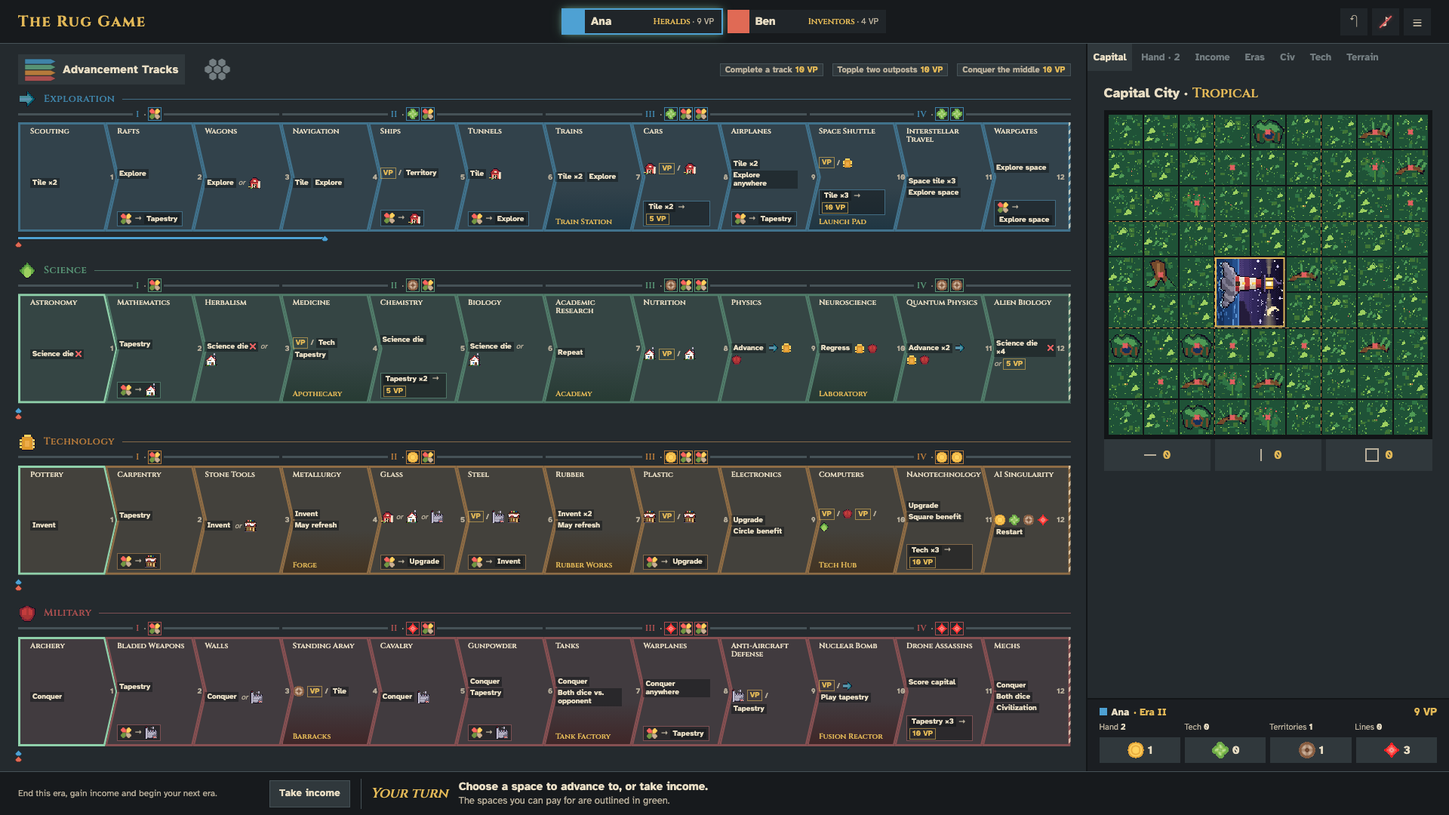
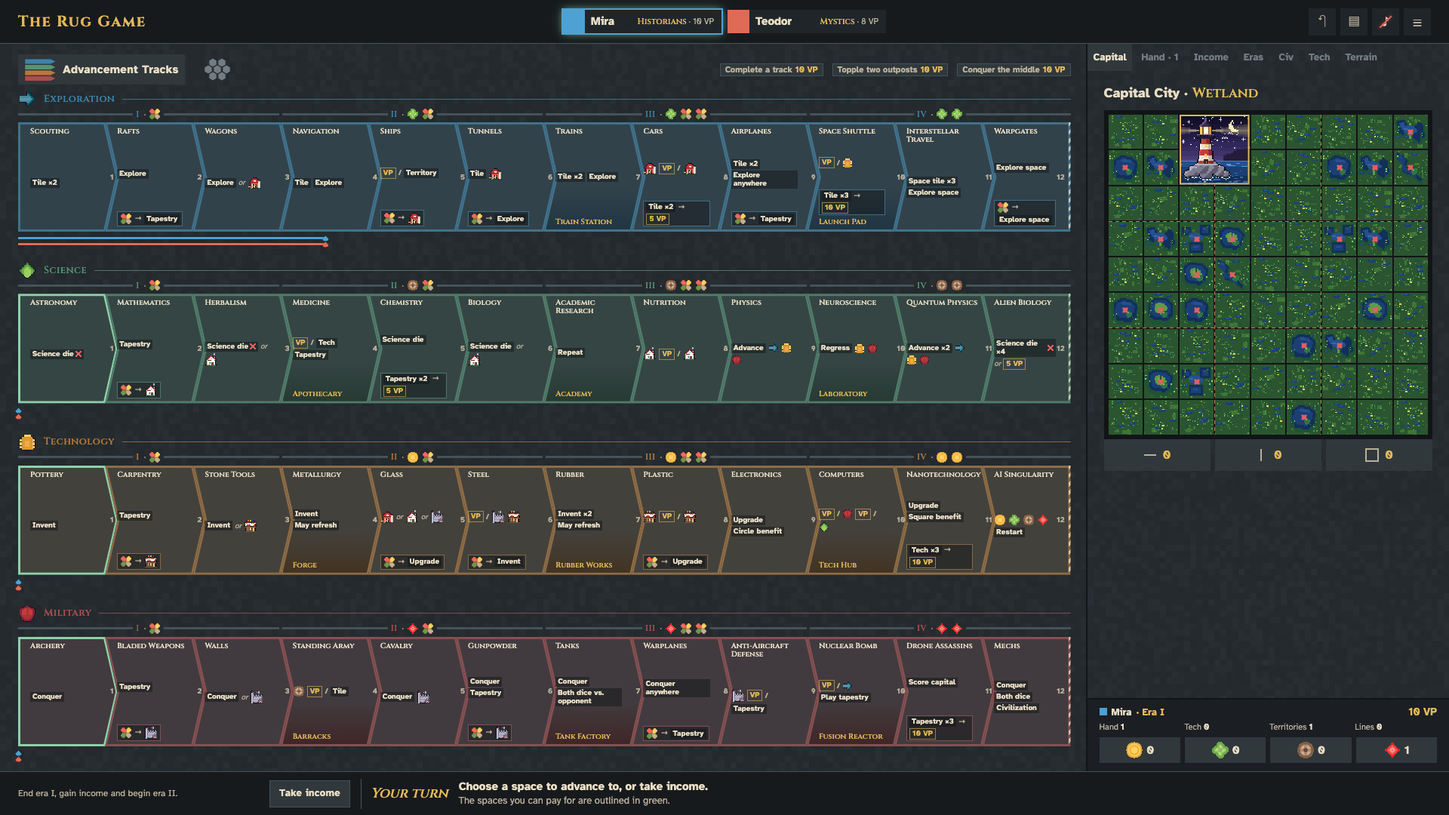
Refs #77: the README and docs show the first-income notice
The README and docs/ui/README.md show the notice from a real hot-seat
game and the forced-income footer from the component library; the map
and player-area screenshots are retaken, so the footer's income words
are the new ones. docs/status.md gets #77's entry, after #47's, and a
line under Next; docs/architecture.md notes startTurn and the turn.js
words. The plan follows the new rules: docs/conventions.md, and no
progress in CLAUDE.md.

diff --git a/docs/architecture.md b/docs/architecture.md
@@ -21,7 +21,7 @@ The project's modules in detail, with the issue that added each. CLAUDE.md keeps
 - `api/rooms.mjs` holds the table rules (#22) as pure transitions in Bird Table's style: `createRoom`, `configure`, `join`, `addSeat`, `removeSeat`, `leave`, `start`, `end` and `play`, plus `settings`, `undo`, `timeout`, `tick`, `nextDeadline`, `scopeOf`, `phase`, `seatsOf` and `cleanName`. #25 adds `ready` (a seat's readiness in an online lobby, cleared by a host change). #29 adds `deal` (0 before the first deal, 1 more at each `start`, in the room view), so the client tells a new deal from the old game. #24 adds `TIMERS` (off, 1, 2 and 5 minutes), `HISTORY_LIMIT` (20 undo steps) and `AUTO_LIMIT` (1,000 automatic answers in a row), and the room fields `timer`, `undo`, `clocks`, `declines` and `history`. Each returns a new room, or `null` when it closes, and throws the engine's `PlayerError`. The code says room, players see table. For the server's `Map` of rooms it has `newCode`, `addRoom` (`MAX_ROOMS` 1,000), `expireRooms` (`ROOM_IDLE_MS`, a day), `openTables` and `unfinishedSeat`. Room seat `i` is game seat `i + 1`; seats never move or disappear while a game is on the table. It uses the engine only through `src/lib/engine/game.js`, whose `checkOptions()` checks a table's options.
 - **Client.** The browser interface is **Svelte 5** with runes forced on (5.57.2), built by **Vite** (8.3.4), without SvelteKit. The project root is Vite's root, laid out like the owner's other Svelte projects (owner, 2026-10-21). The full layout is in docs/conventions.md.
   - `index.html` is the game page. `src/main.js` mounts `src/App.svelte`, which shows one screen at a time from the store (#25): `src/screens/Landing.svelte`, `Lobby.svelte` and, once a game is dealt, `Game.svelte` (#26), with `PageHeader.svelte` and `HelpPanel.svelte`. Screens own state and call the store; the components in `src/lib/components/` stay presentational.
-  - The client's plain modules (#25), each tested under Vitest: `src/lib/api.js` (`createApi`, `ApiError`; the token in `sessionStorage`, so each tab is its own guest), `changes.js` (`change()`: a stale version is retried once while the seats stay the same), `boot.js` (where a returning tab lands), `poll.js` (`pollTable`, one long poll at a time with back-off), `lobby.js` (seat slots, who may change what, labels) and `names.js` (Lazar's name generator). #26 adds `turn.js` (`myDecision`, `advanceOptions`: the engine's own `advances()` and answers run on the viewer's view), `moves.js` (`sendMove`, `seatToShow`), `board.js` (the tracks and achievements), `hexmap.js` (the board's hex geometry and `mapHexes`), `describe.js` (plain English for effects, costs, decisions and answers), `clock.js` and `overview.js`. #27 adds `src/lib/area/` (`capital.js`, `income.js`, `terrain.js`, `tabs.js`, `players.js`: what each player tab and the overview draw from a seat of the view) and `src/lib/cards/game-cards.js` (`techCardData`, `tapestryCardData` from the engine through `describe.js`); the screens `src/screens/game/PlayerTabs.svelte` and `PlayersOverview.svelte`. #28 adds `src/lib/prompts.js` (`promptFor`, `incomeView`, `effectArt`: what the decision panel draws for an open decision), `src/lib/area/explore.js` (`exploreTiles`, `tileScores`, `hexScores`, `exploreIndex`, `tilePreview`, `tileWords`, `exploreLine`: the tiles an explore offers, what each scores on each hex in each turn, and the words for the chosen one; #74 replaced `exploreChoices`) and `src/lib/area/placement-targets.js` (`plotTargets`, `legalNear`, `nextRotation`, `placeNear`, `placingPiece`: the capital's legal places for the Capital tab). #29 adds `src/lib/event-feed.js` (`freshEvents`: the events since the last view of the same table and deal, none after a refresh; `liveEvents`: without what an `undone` took back), `log.js` (`eventText`, `logEntries`, `SILENT`: the log's words), `results.js` (`standings`, `tieExplanations`, `yourResult`, `ruleNote`, `tableFacts`, `scoreboard`, `VP_SOURCES`), `sound.js` (`cueFor`, `createSoundPlayer`, the CC0 Kenney cues in `static/audio/`) and `motion.js` (`highlights`); the store keeps `fresh` and `freshCount`, and App shows `src/screens/Results.svelte` for a finished game unless the player reviews the board. #30 adds `src/lib/pass.js` (`handOver`: at a hot-seat table, which view to take or ask for and whom the pass screen names; `passReason`) and the screen `src/screens/HandOver.svelte`; the store keeps `passing`, `taking` and `takeSeat()`, and App shows the pass screen instead of the game while a player is named. #61 adds `src/lib/dice.js` (`rollsOf`, `faceOf`: the rolls in a batch of fresh events, the faces they land on and their captions; `App.svelte` draws the `DiceTray` over every screen) and the die bodies in `tools/art/parts/dice.js`. #75 adds `src/lib/picks.js` (`pickModel`, `advanceModel`, `tradeOffers`, `offerModel`, `emptySelection`, `togglePick`, `toggleItem`, `canPick`, `canPickItem`, `matchIndex`, `pendingCounts`, `pickStatus`, `rowView`: several resources, cards or tiles chosen one by one and matched to one of the decision's answers; `promptFor` carries its `picks` and a trade's offers). #59 adds `src/lib/glyphs.js` (`effectGlyphs`, `spaceGlyphs`, `bonusGlyphs`: what a track space draws for its benefit and bonus), and #56 `matPlots` and `terrainSeed` in `src/lib/area/capital.js`. `src/lib/game.svelte.js` is the rune store that ties them together. `src/lib/engine/game.js` also exports `completeDistricts`, `uniformLines`, `matchingSides`, `turned`, `INCOME_STEPS`, `INCOME_STEP_KINDS`, and `advances`, `DECISIONS`, `openDecisions`, `controlledTerritories`, `cityPlots` and `completeLines` for the app.
+  - The client's plain modules (#25), each tested under Vitest: `src/lib/api.js` (`createApi`, `ApiError`; the token in `sessionStorage`, so each tab is its own guest), `changes.js` (`change()`: a stale version is retried once while the seats stay the same), `boot.js` (where a returning tab lands), `poll.js` (`pollTable`, one long poll at a time with back-off), `lobby.js` (seat slots, who may change what, labels) and `names.js` (Lazar's name generator). #26 adds `turn.js` (`myDecision`, `advanceOptions`: the engine's own `advances()` and answers run on the viewer's view; #77 adds `incomeWords`, `forcedIncome`, `takingTurnWords` and `firstIncomeNotice`, the words of income turns and the one-time notice after income turn 1), `moves.js` (`sendMove`, `seatToShow`), `board.js` (the tracks and achievements), `hexmap.js` (the board's hex geometry and `mapHexes`), `describe.js` (plain English for effects, costs, decisions and answers), `clock.js` and `overview.js`. #27 adds `src/lib/area/` (`capital.js`, `income.js`, `terrain.js`, `tabs.js`, `players.js`: what each player tab and the overview draw from a seat of the view) and `src/lib/cards/game-cards.js` (`techCardData`, `tapestryCardData` from the engine through `describe.js`); the screens `src/screens/game/PlayerTabs.svelte` and `PlayersOverview.svelte`. #28 adds `src/lib/prompts.js` (`promptFor`, `incomeView`, `effectArt`: what the decision panel draws for an open decision), `src/lib/area/explore.js` (`exploreTiles`, `tileScores`, `hexScores`, `exploreIndex`, `tilePreview`, `tileWords`, `exploreLine`: the tiles an explore offers, what each scores on each hex in each turn, and the words for the chosen one; #74 replaced `exploreChoices`) and `src/lib/area/placement-targets.js` (`plotTargets`, `legalNear`, `nextRotation`, `placeNear`, `placingPiece`: the capital's legal places for the Capital tab). #29 adds `src/lib/event-feed.js` (`freshEvents`: the events since the last view of the same table and deal, none after a refresh; `liveEvents`: without what an `undone` took back), `log.js` (`eventText`, `logEntries`, `SILENT`: the log's words), `results.js` (`standings`, `tieExplanations`, `yourResult`, `ruleNote`, `tableFacts`, `scoreboard`, `VP_SOURCES`), `sound.js` (`cueFor`, `createSoundPlayer`, the CC0 Kenney cues in `static/audio/`) and `motion.js` (`highlights`); the store keeps `fresh` and `freshCount`, and App shows `src/screens/Results.svelte` for a finished game unless the player reviews the board. #30 adds `src/lib/pass.js` (`handOver`: at a hot-seat table, which view to take or ask for and whom the pass screen names; `passReason`) and the screen `src/screens/HandOver.svelte`; the store keeps `passing`, `taking` and `takeSeat()`, and App shows the pass screen instead of the game while a player is named. #61 adds `src/lib/dice.js` (`rollsOf`, `faceOf`: the rolls in a batch of fresh events, the faces they land on and their captions; `App.svelte` draws the `DiceTray` over every screen) and the die bodies in `tools/art/parts/dice.js`. #75 adds `src/lib/picks.js` (`pickModel`, `advanceModel`, `tradeOffers`, `offerModel`, `emptySelection`, `togglePick`, `toggleItem`, `canPick`, `canPickItem`, `matchIndex`, `pendingCounts`, `pickStatus`, `rowView`: several resources, cards or tiles chosen one by one and matched to one of the decision's answers; `promptFor` carries its `picks` and a trade's offers). #59 adds `src/lib/glyphs.js` (`effectGlyphs`, `spaceGlyphs`, `bonusGlyphs`: what a track space draws for its benefit and bonus), and #56 `matPlots` and `terrainSeed` in `src/lib/area/capital.js`. `src/lib/game.svelte.js` is the rune store that ties them together. `src/lib/engine/game.js` also exports `completeDistricts`, `uniformLines`, `matchingSides`, `turned`, `INCOME_STEPS`, `INCOME_STEP_KINDS`, and `advances`, `DECISIONS`, `openDecisions`, `controlledTerritories`, `cityPlots` and `completeLines` for the app.
   - `components.html` is the component library page (#48). `src/library/main.js` mounts `src/library/Library.svelte`, which collects every `src/library/sections/<area>/<Name>.svelte` and shows each component in all its states. `src/lib/components/README.md` indexes the components.
   - `src/lib/` holds everything the app shares:
     - `components/<area>/` holds the Svelte components, grouped by area;
@@ -32,7 +32,7 @@ The project's modules in detail, with the issue that added each. CLAUDE.md keeps
     - `art/hex-overlays.js` holds where the cloud and volcano overlays sit in a territory's 64×56 picture, shared by the art and the map (#6);
     - `art/footprints.js` holds the 33 landmark footprints. A landmark's picture is drawn in its footprint's shape at 32 pixels per plot, and the art build refuses one that covers the wrong plots. The rules engine must reuse this module;
     - `engine/` holds the rules engine, shared by the server and the app. It imports only relative paths: no DOM, Svelte or Node. Its `data/` folder holds the base-game data (#12), plain frozen modules: `ids.js` (versions with their tiebreak chains, and the track, resource, building and terrain ids), `effects.js` (the effect vocabulary), `tracks.js`, `income-mat.js`, `capitals.js`, `maps.js`, `territory-tiles.js`, `space-tiles.js`, `tech-cards.js`, `tapestry-cards.js`, `landmarks.js`, `achievements.js` and `dice.js`. Every benefit is a list of one-key effects such as `{ gain: { any: 1 } }`, explained in `docs/superpowers/specs/2026-10-24-base-game-data-design.md`.
-    - The engine core (#13) sits beside `data/`. `game.js` is the entry point and exports `createGame`, `play`, `view` and `PlayerError`. The pending decisions live on an operation stack (`stack.js`, run by `loop.js`), where a group gives each player a lane so they decide at the same time. `kinds.js` registers the decision kinds (`decisions/`, each with its hidden fields, legal `answers()`, `check()` and `resolve()`) and the automatic kinds. The effect handlers live in `effects/index.js` (`EFFECTS`); each gets its operation, with the `source` space, as a fourth argument. Advance turns (#14) add `turn.js` (`startTurn`, `endTurn`), `payment.js` (paying costs and discards), `movement.js` (moving tokens, the landmark race, once-per-turn activations, `spacesAdvanced`) and `control.js` (`controlledTerritories`, which #17 reuses). The design is `docs/superpowers/specs/2026-10-24-advance-turns-design.md`. Income turns (#15) add `income.js` (`INCOME_STEPS`, exposed spaces, `neighbours`) and `ranking.js` (`rankPlayers`, `landmarksInCity`); their design is `docs/superpowers/specs/2026-10-24-income-turns-design.md`. Capital placement (#16) adds `city.js` (the plots, the legal places, complete districts and lines) and `placing.js` (`placeBuilding`, `placeLandmark`, `placePiece`); its design is `docs/superpowers/specs/2026-10-24-capital-city-design.md`. Exploring and conquering (#17) add `map.js` (hex neighbours, matching sides, legal hexes and targets), `effects/explore.js` and `effects/conquer.js`; their design is `docs/superpowers/specs/2026-10-24-map-design.md`. Tech cards (#18) add `data/tech-cards.js` (the 33 cards), `tech.js` (the deck, the display and the prerequisites) and `effects/tech.js` (`invent`, `upgrade`, `techBenefit`, `landmark`); their design is `docs/superpowers/specs/2026-10-25-tech-cards-design.md`. Tapestry cards (#19) add `data/tapestry-cards.js` (the 43 cards and the trap), `tapestry.js` (playing a card, the current era, the visible cards), `abilities.js` (the active THIS ERA ability, `triggered()`, advance blocks, allies), `eras.js` (the THIS ERA triggers), `achievements.js`, and `effects/tapestry.js`, `effects/players.js` and `effects/cards.js`; their design is `docs/superpowers/specs/2026-10-25-tapestry-abilities-design.md`. Civilizations (#20) add `civs/` (one module per civilization; `CIVS` and `civsOf` in `civs/index.js`; the `Civ` typedef, `offer` and `placeToken` in `civs/civ.js`), `civ-turns.js` (civilization setup and adjustments, step 1 of income turns, `gainCiv`), `outposts.js` (`takeOutpost`), `terrain.js` (the terrains a territory shows) and `effects/lose.js`; their design is `docs/superpowers/specs/2026-10-25-civilizations-design.md`. Because of the `abilities.js` → `civs/index.js` cycle, nine modules throw a `ReferenceError` when imported first: the civilization modules `civs/architects.js`, `futurists.js`, `heralds.js`, `historians.js`, `inventors.js`, `leaders.js`, `mystics.js` and `the-chosen.js`, and `decisions/choose-prophecy.js`. So import the engine through `game.js`, `kinds.js` or `play.js`. #47's civilization-mat component must import a civilization's data tables through `src/lib/engine/game.js` or `civs/index.js`, never a civilization module first. The setup steps are `SETUP_STEPS` in `setup.js` and `AFTER_SETUP_STEPS` in `after-setup.js`. The optional variants (#53) are `VARIANTS` in `setup.js`, as `{ id, name }`; each is checked in `state.variants` where its rule lives, and `techDeck(variants)` in `decks.js` gives a game's tech cards. `play.js` answers a decision. `state.js` holds the state types and the seat lookups. `events.js` numbers the events. `random.js` holds the injected randomness and the shuffle. `decks.js` lists the base decks. `errors.js` holds `PlayerError`. `table.js` (#24) holds what tables need to know about a game: `askedSeats`, `defaultAction`, `declineOnly`, `revealed`, `timedOut` and `restore`; `state.turn` counts turns (0 in setup). `view.js` is the only way state leaves the server. The design is `docs/superpowers/specs/2026-10-24-engine-core-design.md`.
+    - The engine core (#13) sits beside `data/`. `game.js` is the entry point and exports `createGame`, `play`, `view` and `PlayerError`. The pending decisions live on an operation stack (`stack.js`, run by `loop.js`), where a group gives each player a lane so they decide at the same time. `kinds.js` registers the decision kinds (`decisions/`, each with its hidden fields, legal `answers()`, `check()` and `resolve()`) and the automatic kinds. The effect handlers live in `effects/index.js` (`EFFECTS`); each gets its operation, with the `source` space, as a fourth argument. Advance turns (#14) add `turn.js` (`startTurn`, `endTurn`; since #77 `startTurn` takes a player's income turn 1 itself, so a first turn asks nothing), `payment.js` (paying costs and discards), `movement.js` (moving tokens, the landmark race, once-per-turn activations, `spacesAdvanced`) and `control.js` (`controlledTerritories`, which #17 reuses). The design is `docs/superpowers/specs/2026-10-24-advance-turns-design.md`. Income turns (#15) add `income.js` (`INCOME_STEPS`, exposed spaces, `neighbours`) and `ranking.js` (`rankPlayers`, `landmarksInCity`); their design is `docs/superpowers/specs/2026-10-24-income-turns-design.md`. Capital placement (#16) adds `city.js` (the plots, the legal places, complete districts and lines) and `placing.js` (`placeBuilding`, `placeLandmark`, `placePiece`); its design is `docs/superpowers/specs/2026-10-24-capital-city-design.md`. Exploring and conquering (#17) add `map.js` (hex neighbours, matching sides, legal hexes and targets), `effects/explore.js` and `effects/conquer.js`; their design is `docs/superpowers/specs/2026-10-24-map-design.md`. Tech cards (#18) add `data/tech-cards.js` (the 33 cards), `tech.js` (the deck, the display and the prerequisites) and `effects/tech.js` (`invent`, `upgrade`, `techBenefit`, `landmark`); their design is `docs/superpowers/specs/2026-10-25-tech-cards-design.md`. Tapestry cards (#19) add `data/tapestry-cards.js` (the 43 cards and the trap), `tapestry.js` (playing a card, the current era, the visible cards), `abilities.js` (the active THIS ERA ability, `triggered()`, advance blocks, allies), `eras.js` (the THIS ERA triggers), `achievements.js`, and `effects/tapestry.js`, `effects/players.js` and `effects/cards.js`; their design is `docs/superpowers/specs/2026-10-25-tapestry-abilities-design.md`. Civilizations (#20) add `civs/` (one module per civilization; `CIVS` and `civsOf` in `civs/index.js`; the `Civ` typedef, `offer` and `placeToken` in `civs/civ.js`), `civ-turns.js` (civilization setup and adjustments, step 1 of income turns, `gainCiv`), `outposts.js` (`takeOutpost`), `terrain.js` (the terrains a territory shows) and `effects/lose.js`; their design is `docs/superpowers/specs/2026-10-25-civilizations-design.md`. Because of the `abilities.js` → `civs/index.js` cycle, nine modules throw a `ReferenceError` when imported first: the civilization modules `civs/architects.js`, `futurists.js`, `heralds.js`, `historians.js`, `inventors.js`, `leaders.js`, `mystics.js` and `the-chosen.js`, and `decisions/choose-prophecy.js`. So import the engine through `game.js`, `kinds.js` or `play.js`. #47's civilization-mat component must import a civilization's data tables through `src/lib/engine/game.js` or `civs/index.js`, never a civilization module first. The setup steps are `SETUP_STEPS` in `setup.js` and `AFTER_SETUP_STEPS` in `after-setup.js`. The optional variants (#53) are `VARIANTS` in `setup.js`, as `{ id, name }`; each is checked in `state.variants` where its rule lives, and `techDeck(variants)` in `decks.js` gives a game's tech cards. `play.js` answers a decision. `state.js` holds the state types and the seat lookups. `events.js` numbers the events. `random.js` holds the injected randomness and the shuffle. `decks.js` lists the base decks. `errors.js` holds `PlayerError`. `table.js` (#24) holds what tables need to know about a game: `askedSeats`, `defaultAction`, `declineOnly`, `revealed`, `timedOut` and `restore`; `state.turn` counts turns (0 in setup). `view.js` is the only way state leaves the server. The design is `docs/superpowers/specs/2026-10-24-engine-core-design.md`.
   - `src/styles/` holds `tokens.css`, `base.css` and `pixel-noise.svg`:
     - `tokens.css` is the single source of truth for colours, the texture, type, spacing, layout sizes, borders, shadows, motion and layers;
     - `base.css` has the `@font-face` rules, the page and the focus outline;

diff --git a/README.md b/README.md
@@ -26,7 +26,7 @@ The component library now uses the approved resources in prices and chips, incom
 
 The **UI/UX handoff for #3** is in [docs/ui/README.md](docs/ui/README.md). It is the manifest for building the real game pages: layout, typography, colours, control states, placement and decision examples. The HTML pages are interactive mockups with fixture data.
 
-**The landing page, the lobby (#25) and the play screen (#26) are built** and run on the real table API. Sign in by name, create or join a table, set it up and start; then play: the Advancement Tracks with the spaces you can pay for, the World Map as the real board's hex grid, composed from the terrain art (#6), the footer turn (income, or advance), and a designed prompt for every other decision (#28): resources and payments with their art, cards on a shelf above the panel, the map's territories with each explore's tile, turn and VP, buildings and landmarks placed on the Capital tab, dice and tracks, and the gold income turn with its steps. Several resources, cards or tiles are picked one by one, as on Board Game Arena (#75): each resource to choose is a row of the four resources, cards and tiles are pictures pressed several at once, and the panel sits at the screen's centre; an advance with a choice of payment opens that panel as soon as its space is picked. Every roll of the dice tumbles in the middle of every screen at the table, lands on the rolled faces under a caption, and fades (#61). Each track space shows its benefit and its bonus, as on the printed board (#59); at setup each capital mat on offer is its real 9×9 grid (#56) and the civilization cards are whole at full size (#57, #58). The player area (#27) has the Capital, Hand, Income, Eras, Civ, Tech and Terrain tabs, with real tech and tapestry cards, and the header chips open the players overview. A whole base game can be played with the mouse. At a hot-seat table, a pass screen (#30) stands between players: it names the next one, whose view isn't even loaded until they take the screen. A defender at a hot-seat table answers a conquest themselves, trap or not, so nothing gives a trap away. When the game ends, the results screen (#29) shows the final standings with each player's VP by source, how any tie was decided and the table's rules; the host can deal again. The header's log button opens the table log and the current scores; sound cues start muted, and a little motion marks what just happened. Run `npm start` and open <http://127.0.0.1:3020/>.
+**The landing page, the lobby (#25) and the play screen (#26) are built** and run on the real table API. Sign in by name, create or join a table, set it up and start; then play: the Advancement Tracks with the spaces you can pay for, the World Map as the real board's hex grid, composed from the terrain art (#6), the footer turn (income, or advance), and a designed prompt for every other decision (#28): resources and payments with their art, cards on a shelf above the panel, the map's territories with each explore's tile, turn and VP, buildings and landmarks placed on the Capital tab, dice and tracks, and the gold income turn with its steps. Several resources, cards or tiles are picked one by one, as on Board Game Arena (#75): each resource to choose is a row of the four resources, cards and tiles are pictures pressed several at once, and the panel sits at the screen's centre; an advance with a choice of payment opens that panel as soon as its space is picked. Every roll of the dice tumbles in the middle of every screen at the table, lands on the rolled faces under a caption, and fades (#61). A first turn is never a choice, so the game takes every player's income turn 1 as setup ends; each player then sees a notice, once, saying so and what they start with. A turn with no advance to pay for says so, with a gold **Take income** where **Advance** sits (#77). Each track space shows its benefit and its bonus, as on the printed board (#59); at setup each capital mat on offer is its real 9×9 grid (#56) and the civilization cards are whole at full size (#57, #58). The player area (#27) has the Capital, Hand, Income, Eras, Civ, Tech and Terrain tabs, with real tech and tapestry cards, and the header chips open the players overview. A whole base game can be played with the mouse. At a hot-seat table, a pass screen (#30) stands between players: it names the next one, whose view isn't even loaded until they take the screen. A defender at a hot-seat table answers a conquest themselves, trap or not, so nothing gives a trap away. When the game ends, the results screen (#29) shows the final standings with each player's VP by source, how any tie was decided and the table's rules; the host can deal again. The header's log button opens the table log and the current scores; sound cues start muted, and a little motion marks what just happened. Run `npm start` and open <http://127.0.0.1:3020/>.
 
 **The boards (#6)** are drawn: the map's six terrain hex pictures, the 48 territory tiles (clouds exactly where R77 says), both map sides as examples, and the 12 advanced capital biomes with their example mats. The game composes its map from the terrain pictures, as it composes the capital from its plot tiles. They wait for the owner's approval in the component library's Art part.
 
@@ -38,11 +38,11 @@ The colours, texture, type, spacing, shadows and motion of these designs are in 
 
 | Play: the tracks, with an advance chosen | Play: the World Map |
 |---|---|
-| ![The play screen: every track space with its benefit and bonus, the payable spaces outlined in green, Rafts selected and the footer offering the advance](docs/ui/screens/game-tracks.png) | ![The play screen: the World Map composed from the terrain art: territories in their turns with coasts, clouds and the start outposts](docs/ui/screens/game-map.png) |
+| ![The play screen: every track space with its benefit and bonus, the payable spaces outlined in green, Rafts selected and the footer offering the advance](docs/ui/screens/game-tracks.png) | ![The play screen a few turns in: the World Map composed from the terrain art, explored territories with coasts and clouds, both players' outposts, and the footer offering an advance or income, which ends era I and begins era II](docs/ui/screens/game-map.png) |
 
 | Play: the player area (Capital) | Play: the players overview |
 |---|---|
-| ![The play screen with the Capital tab: the real Mountain mat's plots and the completion counters](docs/ui/screens/game-player-area.png) | ![The players overview: a card per player and Ana's Wetland capital opened on the right](docs/ui/screens/game-overview.png) |
+| ![The play screen with the Capital tab: Mira's Wetland mat with the Lighthouse placed, and the completion counters](docs/ui/screens/game-player-area.png) | ![The players overview: a card per player and Ana's Wetland capital opened on the right](docs/ui/screens/game-overview.png) |
 
 | Prompt: choosing a capital | Prompt: choosing a civilization |
 |---|---|
@@ -71,6 +71,14 @@ The colours, texture, type, spacing, shadows and motion of these designs are in 
 | The dice tray: a conquest's roll on the other player's screen |
 |---|
 | ![The dice tray in the middle of the screen: the red die landed on 4 VP and the black die on ?, under Marko rolls the conquer dice](docs/ui/screens/game-dice-tray.png) |
+
+| The first turn: the game took income turn 1 (#77) |
+|---|
+| ![Era I begins: the gold notice over the tracks says every player's first turn is an income turn, so the game took yours; you start with 1 coin, 1 food, 1 worker, 1 culture, 1 territory tile and 1 tapestry card; Got it](docs/ui/screens/game-first-income.png) |
+
+| A turn with only income to take (#77, the component library's TurnBar) |
+|---|
+| ![The footer: Your turn · You can't pay for any advance, so take an income turn. End era II, gain income and begin era III, with a gold Take income on the right](docs/ui/screens/game-forced-income.png) |
 
 Open the references directly or run `node docs/ui/preview.mjs` (port 52990): [Launch](docs/ui/launch.html), [Lobby](docs/ui/lobby.html), [Game](docs/ui/main-screen.html), [End screen](docs/ui/end-screen.html).
 

diff --git a/docs/status.md b/docs/status.md
@@ -23,6 +23,7 @@ Updated 2026-10-28. The issues are listed in the order they were finished.
   - The client is a Svelte 5 app built by Vite. The landing page, the lobby (#25), the play screen (#26), the player area (#27) and the designed prompts (#28) are built; a whole base game can be played with the mouse.
   - Every unverified rule detail is decided in the README's "Rules conventions" (R1–R110).
 - **Next:**
+  - #77 (the first turn takes income by itself) is built; it closes once the owner has looked at its IncomeNotice and TurnBar sections in the component library.
   - Then the next unblocked issues by milestone (see [Working on issues](../CLAUDE.md#working-on-issues)).
   - #45 Check R12 (landmark heights) and R39 (decision-card arrows) against the physical box. This is the owner's job, and it blocks nothing.
   - The cosmetic boards wait in #51 until the core features are done.
@@ -49,6 +50,7 @@ Many issues were built without a question round, so their designs mark every uns
 - [#72, #67, #69 and #74 (the owner's M12 issues)](#72-67-69-and-74-the-owners-m12-issues)
 - [#75 (picking several things one by one)](#75-picking-several-things-one-by-one)
 - [#61 (the dice tray)](#61-the-dice-tray)
+- [#77 (the first turn takes income by itself)](#77-the-first-turn-takes-income-by-itself)
 
 ## Issues
 
@@ -466,6 +468,14 @@ Closed on 2026-10-28, when Lazar's branch merged (owner: "close issues that they
 - The merge added what the unit tests ask of every component, which the branch lacked: library sections for `LandmarkCard` and `ScaledTapestryCard`, an `@example` in all three, their rows in `src/lib/components/README.md`, tokens for three hard-coded colours, and the gallery page in `tests/vite-config.test.mjs`.
   - Calls to revisit: landmark cards read "Rules text pending" until the expansions' rules supply their conditions; `LandmarkCard` draws its edition chip in the Arts & Architecture colours, also for the five Plans & Ploys cards; 24 catalog items have no art yet (15 dice faces, 5 game symbols, 4 boards).
   - `tests/browser/card-layouts.test.mjs` checks that card art and edition rules align and that tapestry cards grow with their text.
+
+### #77 (the first turn takes income by itself)
+
+Built on 2026-10-28. The owner changed the issue's brief when asked: "Just make the first income automatic. make sure player knows what's going on. also make sure player knows when there are no more legal moves except to income." The design is `docs/superpowers/specs/2026-10-28-first-income-turn-design.md` and the plan `docs/superpowers/plans/2026-10-28-first-income-turn-issue-77.md`.
+- Built: `startTurn()` (`src/lib/engine/turn.js`) takes income turn 1 itself for a player seat with no income turns: `turnStarted`, `turnChosen` (`income`) and the income steps under the turn's end, with nobody asked. So the move that ends setup runs every seat's income turn 1 in turn order, stopping only where it asks something (the tapestry draft's keep, a civilization's end-of-first-turn rule); `state.turn` counts those turns too. `turnOptions()` and `chooseTurn.check()` lost their first-turn branch. In `src/lib/turn.js`: `incomeWords()`, `forcedIncome()`, `takingTurnWords()` and `firstIncomeNotice()`. The new `IncomeNotice` opens once per seat after its income turn 1; a turn with only income to take has its own footer with a gold **Take income** in the actions; `cueFor()` plays the turn cue only for the batch's last `turnStarted`.
+  - Calls to revisit: the notice is a centred panel over the board with **Got it**, titled "Era I begins", remembered in `sessionStorage`; its holdings follow `describeCost()`'s order (coin, food, worker, culture); a later forced income turn stays a click, since it ends an era; its **Take income** is the outlined `gold` button, as the footer's **Results** is; the waiting footer names any income turn ("Ana is taking income turn 3."); "End era IV, score it and finish playing." before income turn 5.
+  - Tests: `startedGame()` (`tests/helpers/engine.mjs`) answers setup with every seat's `incomeTurns` already 1 unless `keepIncome` is passed, so tests start from what setup gave, as before; `firstIncomeTurn()` runs a seat's income turn 1 again after a `fill`. `tests/browser/first-income.test.mjs` plays a hot-seat setup and sees each player's notice once. `pick-prompts` closes the notice as it takes the screen, and its several-resources test now reads the answer's own `resourcesGained`, since an income step's gains could follow in the same move.
+  - Handed off: #31 (whether the Automa and the Shadow Empire take an automatic income turn 1; `startTurn()` only does it for player seats), #62 (the first turn has no **End turn** moment), #71 (the footer's heading and detail wording agree with these states).
 
 ## Card-design handoff (2026-10-24, Refs #3 #47)
 

diff --git a/docs/ui/README.md b/docs/ui/README.md
@@ -256,6 +256,17 @@ The arrangement and selection styling are the reference. Labels such as Archipel
 - **The capital:** a building's open plots are lit on the Capital tab and a click previews it there; a landmark comes from the tray, snaps only to the engine's legal places, turns with R, and the piece's own lock sends it. Beside the mat and the Craftsmen's columns stay panel choices.
 - **The income turn** is gold, as in the mockup: the panel's title and step strip (Ability, Tapestry, Upgrade, Score, Income, only the steps that turn runs) and the footer's "Your income turn · Income turn n · step".
 
+**Built in #77 (2026-10-28): the first turn takes income by itself.** The owner changed the issue's brief: "Just make the first income automatic. make sure player knows what's going on. also make sure player knows when there are no more legal moves except to income." The design is `docs/superpowers/specs/2026-10-28-first-income-turn-design.md`.
+
+![Era I begins: the notice after income turn 1](screens/game-first-income.png)
+
+![A turn with only income to take: the footer from the component library](screens/game-forced-income.png)
+
+- **Income turn 1 is never asked.** A first turn must be an income turn (01 §4.1), so the engine takes it for every seat in turn order as setup ends. It still stops for whatever that turn asks, such as the tapestry draft's keep, and the gold footer then adds "Every player's first turn is an income turn." While another player's first income asks them something, the waiting footer says "Ana is taking their first income turn." (later: "Ana is taking income turn 3.").
+- **The notice** (`IncomeNotice`) opens once per player, in the gold income panel at the screen's centre, after their income turn 1: **Era I begins**, why nobody asked, "You start with" their resources as chips and their holdings in words, and "From now on, each turn you either advance on a track or take income." **Got it** or Escape closes it. It never opens over a question, and a refresh or the other seat at a hot-seat screen doesn't bring it back (`sessionStorage`, per table and seat).
+- **A turn with only income to take** says "You can't pay for any advance, so take an income turn." with what this income turn does, and a gold **Take income** where **Advance** sits; the left-side income reveal is gone, and selecting a track space keeps this footer.
+- **The income words** name the eras: "End era I, gain income and begin era II." up to era IV, and "End era IV, score it and finish playing." before income turn 5.
+
 ### Three horizontal bands
 
 Use a compact, full-width **header**, **middle play area**, and **turn footer**. Header and footer have the same short height, approximately 58px in the reference, and the same dark gray background. There are no outer side borders. The middle uses mid-gray pixel-textured surfaces, divided **3/4 shared area to 1/4 player area**.

diff --git a/docs/superpowers/plans/2026-10-28-first-income-turn-issue-77.md b/docs/superpowers/plans/2026-10-28-first-income-turn-issue-77.md
@@ -12,7 +12,7 @@
 
 ## Global Constraints
 
-- Follow CONVENTIONS.md: JSDoc, no TypeScript; a one-line comment at the top of each file; braces on every `if`; Prettier (tabs, single quotes); `npm run check` reports 0 errors and 0 warnings.
+- Follow docs/conventions.md, which no agent edits: JSDoc, no TypeScript; a one-line comment at the top of each file; braces on every `if`; Prettier (tabs, single quotes); `npm run check` reports 0 errors and 0 warnings.
 - Game rules stay in `src/lib/engine/`. No `Math.random()`.
 - Components:
   - a `<script module>` with `@typedef`, `@property` and `@example`;
@@ -220,8 +220,8 @@
   - `README.md` ("Current interface");
   - `docs/ui/README.md` and `docs/ui/screens/` (new screenshots from the running game, at 1920×1080: the notice, and the forced footer if reachable, otherwise the library example);
   - `docs/status.md` (#77's entry and its hand-offs to #31, #62 and #71);
-  - `docs/architecture.md` (`startTurn` takes income turn 1);
-  - CLAUDE.md's "Where the work stands", only if the M12 line changes.
+  - `docs/architecture.md` (`startTurn` takes income turn 1).
+- Never CLAUDE.md, which holds no progress (owner, 2026-10-28).
 - GitHub: #77's body.
 
 - [ ] **Step 1: Rewrite #77's body** to the owner's brief, with the github-issue-creator skill's layout. Keep the checklist matching what was built, and tick what's done.
